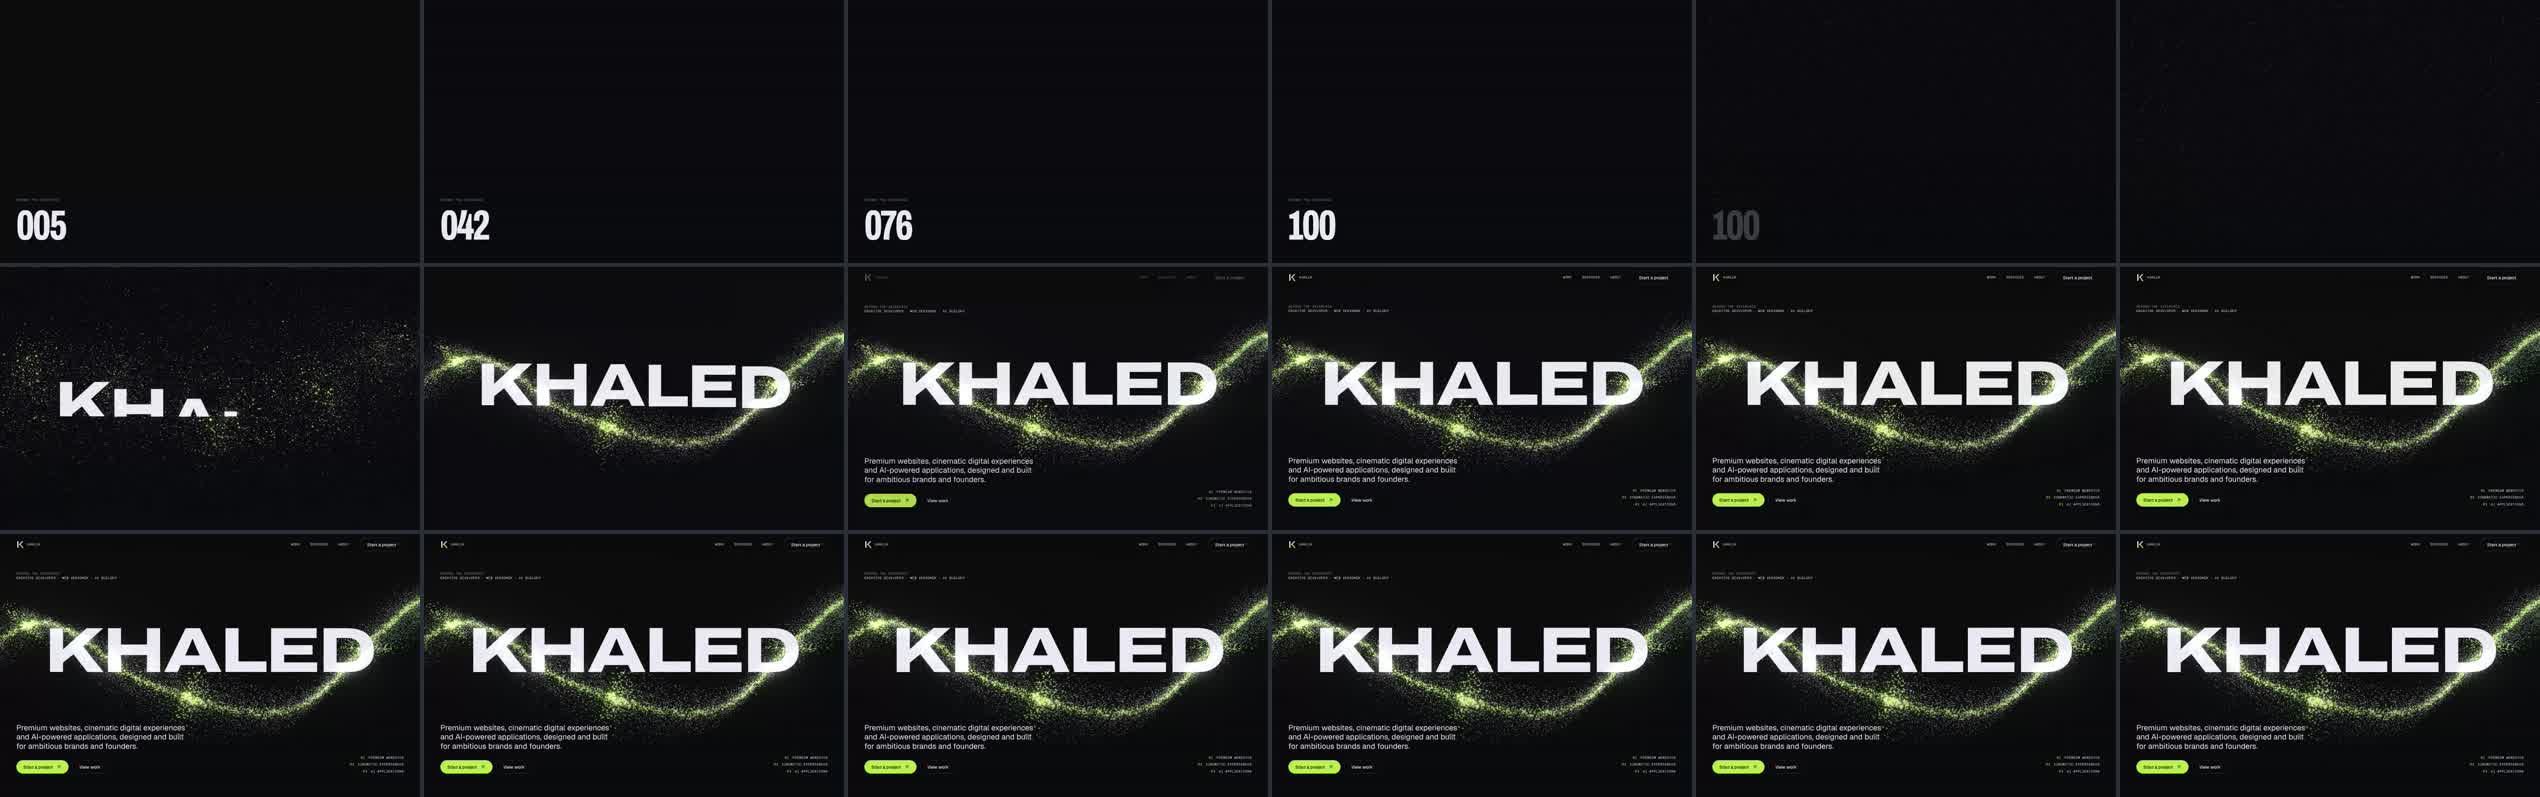
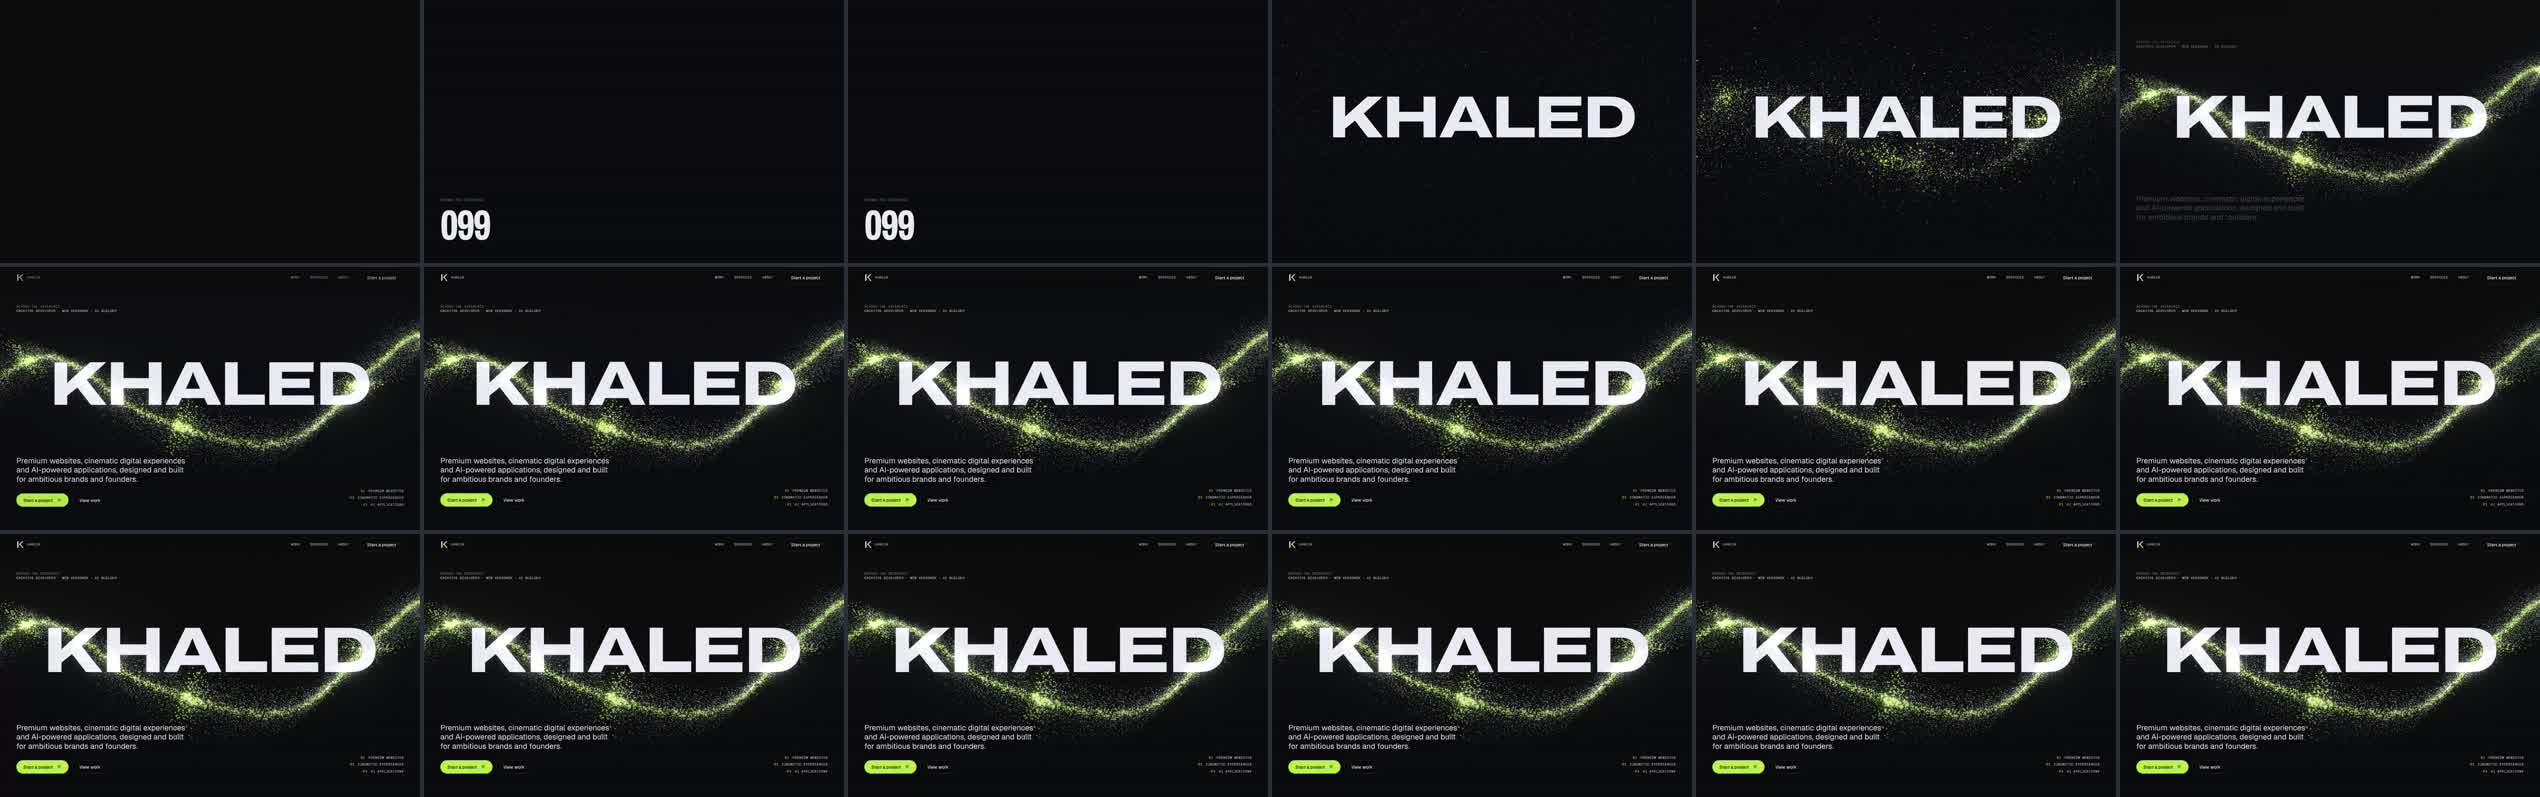
Hero review round: veil cap, tablet legibility, preview docs
- Opening veil is never a forced wait: exits as soon as the scene is ready,
  fully gone <= 1.0s after navigation incl. fade (CSS-enforced cap); counter
  only appears if init takes > 300ms; late JS falls back to seamless handoff
- Mobile intro decision recorded (offer line visible from first frame)
- Hero scrim follows orientation (fixes tablet-portrait legibility)
- portfolio/README.md: local preview + env + QA instructions
- Hero review notes: measurements, screenshots (6 sizes), known issues

Phase 5 remains paused pending Hero approval.

Claude-Session: https://claude.ai/code/session_01KrgLBmrXHV4e51NHZYd6G6

diff --git a/portfolio/components/motion/Intro.tsx b/portfolio/components/motion/Intro.tsx
@@ -9,7 +9,8 @@ import { detectTier } from "@/components/three/quality";
 
 /**
  * SCENE 01 — the opening (docs/preproduction/storyboard-motion-spec.md, rows 1.1–1.8).
- * First visit: veil + counter (≤ 2.0s) → gathering → letter rise → lines → nav.
+ * First visit: black veil only while the scene initialises (≤ 1.0s incl. fade; the counter appears
+ * only if init takes > 300ms) → gathering → letter rise → lines → nav.
  * Repeat visit: no veil, no letter rise; particles gather, wordmark crossfades DOM → WebGL.
  * Content is visible by default; this only ever animates it in, with timeouts as failsafes.
  */
@@ -57,62 +58,72 @@ export function Intro() {
       });
     };
 
-    if (!firstVisit) {
-      // Repeat visit: gather + seamless crossfade, no hidden content.
+    // Repeat visit (or first visit whose JS arrived after the veil budget):
+    // gather + seamless DOM → WebGL crossfade, no hidden content.
+    const seamless = () => {
       const unsub = onFlowReady(() => ctx.add(() => gsap.to(flow, { intro: 1, duration: 1.8, ease: "power2.inOut" })));
       waitForWordmark(4000).then((ok) => {
         if (!ok) return;
         flow.letters = flow.letters.map(() => 1);
         takeOver(true, 0.3);
       });
+      return unsub;
+    };
+
+    // Veil budget (Khaled, 2026-11-24): never a forced wait. The black screen exits the moment the
+    // scene is ready and is fully gone ≤ VEIL_MAX_MS after navigation, fade included.
+    // globals.css enforces the same cap without JS; the counter only appears after 300ms.
+    const VEIL_MAX_MS = 1000;
+    const VEIL_FADE_S = 0.35;
+    const waitBudget = VEIL_MAX_MS - VEIL_FADE_S * 1000 - performance.now();
+
+    if (!firstVisit || waitBudget < 60) {
+      if (firstVisit && veilRef.current) gsap.set(veilRef.current, { autoAlpha: 0 });
+      const unsub = seamless();
       return () => {
         unsub();
         ctx.revert();
       };
     }
 
-    // ---------- First visit
+    // ---------- First visit, within budget
     window.dispatchEvent(new CustomEvent("k:scroll-lock", { detail: true }));
     html.style.overflow = "hidden";
     const counter = { v: 0 };
+    const writeCount = () => countRef.current && (countRef.current.textContent = String(Math.round(counter.v)).padStart(3, "0"));
     ctx.add(() => {
-      // The LCP candidate (offer line) is never hidden — only moved — so LCP isn't delayed by the intro.
+      // The LCP candidate (offer line) is never hidden on mobile — only moved — so LCP isn't delayed.
       gsap.set(lines, { y: 24 });
       const lcpSafe = window.innerWidth < 768; // on mobile the offer line is the LCP element; on desktop it's the wordmark
       gsap.set(lines.filter((l) => !(lcpSafe && l.hasAttribute("data-lcp"))), { opacity: 0 });
       if (header) gsap.set(header, { opacity: 0 });
-      gsap.to(counter, {
-        v: 90,
-        duration: 1.4,
-        ease: "power1.out",
-        onUpdate: () => countRef.current && (countRef.current.textContent = String(Math.round(counter.v)).padStart(3, "0")),
-      });
+      gsap.to(counter, { v: 99, duration: Math.max(0.1, waitBudget / 1000), ease: "power1.out", onUpdate: writeCount });
     });
 
     let cancelled = false;
-    waitForWordmark(2000).then((ok) => {
+    let lateUnsub: (() => void) | undefined;
+    waitForWordmark(waitBudget).then((ok) => {
       if (cancelled) return;
       ctx.add(() => {
         const tl = gsap.timeline();
-        tl.to(counter, {
-          v: 100,
-          duration: 0.3,
-          ease: "power1.out",
-          onUpdate: () => countRef.current && (countRef.current.textContent = String(Math.round(counter.v)).padStart(3, "0")),
-        });
-        // Hand the wordmark to WebGL (letters still below their masks) under the veil
         tl.add(() => {
+          gsap.killTweensOf(counter);
+          counter.v = 100;
+          writeCount();
+          // Hand the wordmark to WebGL (letters still below their masks) under the veil
           if (ok) {
             flow.wordmark = 1;
             if (h1) gsap.set(h1, { opacity: 0 });
           }
         });
-        tl.to(veilRef.current, { autoAlpha: 0, duration: 0.6, ease: "cine" }, ">");
+        tl.to(veilRef.current, { autoAlpha: 0, duration: VEIL_FADE_S, ease: "cine" });
         tl.add(() => {
           html.style.overflow = "";
           window.dispatchEvent(new CustomEvent("k:scroll-lock", { detail: false }));
+          // Scene wasn't ready inside the budget: DOM wordmark stays; hand over seamlessly when ready.
+          if (!ok) lateUnsub = seamless();
         });
-        const t0 = tl.duration() - 0.35; // overlap the veil's exit
+        const t0 = tl.duration() - 0.2; // overlap the veil's exit
         // 1.2 gathering (starts dim, settles on the ribbon)
         tl.to(flow, { intro: 1, duration: 2.4, ease: "power2.inOut" }, t0);
         // 1.3 letter rise (WebGL, in depth)
@@ -130,6 +141,7 @@ export function Intro() {
 
     return () => {
       cancelled = true;
+      lateUnsub?.();
       html.style.overflow = "";
       ctx.revert();
     };
@@ -141,10 +153,12 @@ export function Intro() {
       aria-hidden="true"
       className="veil fixed inset-0 z-[80] flex-col items-start justify-end bg-obsidian p-[clamp(1.25rem,4vw,3.5rem)]"
     >
-      <p className="label text-muted">Beyond the interface</p>
-      <p className="display wdth-62 mt-2 text-[clamp(4rem,12vw,9rem)] leading-none text-silver">
-        <span ref={countRef}>000</span>
-      </p>
+      <div className="veil-count">
+        <p className="label text-muted">Beyond the interface</p>
+        <p className="display wdth-62 mt-2 text-[clamp(4rem,12vw,9rem)] leading-none text-silver">
+          <span ref={countRef}>000</span>
+        </p>
+      </div>
     </div>
   );
 }

diff --git a/portfolio/app/globals.css b/portfolio/app/globals.css
@@ -125,8 +125,12 @@
    A CSS failsafe reveals everything after 4.5s if JS never runs.
    --------------------------------------------------------------- */
 .veil { display: none; }
-html.first-visit .veil { display: flex; animation: veil-failsafe 0s linear 4.5s forwards; }
+/* Veil cap: fully gone ≤ 1.0s after navigation even if JS is slow (0.65s hold + 0.35s fade). */
+html.first-visit .veil { display: flex; animation: veil-failsafe 0.35s cubic-bezier(0.65, 0, 0.35, 1) 0.65s forwards; }
 @keyframes veil-failsafe { to { opacity: 0; visibility: hidden; } }
+/* The counter is only shown if initialisation is genuinely taking time (> 300ms). */
+.veil-count { opacity: 0; animation: veil-count-in 0.2s linear 0.3s forwards; }
+@keyframes veil-count-in { to { opacity: 1; } }
 
 @media (prefers-reduced-motion: reduce) {
   *, *::before, *::after { animation-duration: 0.01ms !important; transition-duration: 0.01ms !important; scroll-behavior: auto !important; }

diff --git a/portfolio/components/sections/Signal.tsx b/portfolio/components/sections/Signal.tsx
@@ -38,7 +38,7 @@ export function Signal() {
       {/* Legibility scrim: the Flow passes behind the offer, never through it */}
       <div
         aria-hidden="true"
-        className="pointer-events-none absolute inset-x-0 bottom-0 h-[62%] bg-[linear-gradient(to_top,rgba(9,10,13,0.92)_0%,rgba(9,10,13,0.7)_45%,transparent_100%)] md:h-[42%] md:bg-[linear-gradient(to_top,rgba(9,10,13,0.85)_0%,rgba(9,10,13,0.4)_50%,transparent_100%)]"
+        className="pointer-events-none absolute inset-x-0 bottom-0 h-[62%] bg-[linear-gradient(to_top,rgba(9,10,13,0.92)_0%,rgba(9,10,13,0.7)_45%,transparent_100%)] md:landscape:h-[42%] md:landscape:bg-[linear-gradient(to_top,rgba(9,10,13,0.85)_0%,rgba(9,10,13,0.4)_50%,transparent_100%)]"
       />
       <div className="container-site relative grid gap-8 md:grid-cols-12 md:items-end" data-hero-out>
         <div className="md:col-span-7 lg:col-span-6">

diff --git a/docs/review/hero/README.md b/docs/review/hero/README.md
@@ -1,54 +1,60 @@
-# Hero Review — Phase 4 (awaiting Khaled's approval)
+# Hero Review — awaiting Khaled's visual approval
 
-**Build:** `portfolio/` · Next.js 16.4 · production build · reviewed 2026-11-24
-**Recordings:** `hero-desktop.mp4` (1440×900, high tier) and `hero-mobile.mp4` (390×844, low tier). They're sent separately and not committed to git.
+**Status:** Phase 5 is **paused** until Khaled approves the Hero after reviewing it on real desktop and mobile devices. Nothing is published.
+**Build:** `portfolio/` production build · branch `claude/portfolio-skills-setup-rwlc89`
 
-> ⚠ The recordings were made in a cloud container **without a GPU** (software WebGL), so playback is choppier than on any real device. Timing is real; smoothness isn't representative. Please also run it locally (see below).
+## How to preview
+
+See [`portfolio/README.md`](../../../portfolio/README.md). In short, with Node ≥ 20.9:
+
+```bash
+cd portfolio && npm install && npm run build && npm start
+# → http://localhost:3000   (new tab/window = first-visit opening again)
+```
+
+## Review material
+
+| File | What |
+|---|---|
+| `hero-desktop.mp4` | 1440×900, high tier: opening → cursor interaction → scroll-out *(sent directly, not in git)* |
+| `hero-mobile.mp4` | 390×844, mobile tier: opening → scroll-out *(sent directly, not in git)* |
+| `desktop-sequence.jpg`, `mobile-sequence.jpg` | Frame sequences of the recordings |
+| `screenshots/hero-desktop-1440.jpg`, `hero-desktop-1920.jpg` | Settled hero, desktop |
+| `screenshots/hero-tablet-768.jpg` | Settled hero, tablet portrait |
+| `screenshots/hero-mobile-390.jpg`, `hero-mobile-360.jpg` | Settled hero, phones |
+| `screenshots/hero-reduced-motion-1440.jpg` | Reduced-motion version |
+
+> ⚠ All captures were made in a cloud container **without a GPU** (software WebGL). Timing is real, but motion is choppier than on a real device. Please judge smoothness on your own machine.
 
 ![Desktop sequence](desktop-sequence.jpg)
 ![Mobile sequence](mobile-sequence.jpg)
 
-## What to review
+## Decisions applied (2026-11-24)
 
-1. **The opening** (first visit): veil + counter → the scattered signal gathers into the Flow → KHALED rises letter by letter from its masks, *inside* the 3D space (the Flow passes behind K-H-A-L and in front of the D) → the offer and CTAs → the nav.
-2. **Business positioning:** the first viewport says what you sell and to whom, with **Start a project** as the primary action.
-3. **Interaction (desktop):** move the cursor across the Flow; particles part around it and the camera follows with a gentle parallax.
-4. **Scroll-out:** the wordmark lifts and drifts toward the camera while the Flow carries on into Scene 02.
-5. **Repeat visits:** no veil and no letter rise; the wordmark is already in place and only the particles gather.
-6. **Mobile:** the same story, re-staged vertically. 9k particles with no bloom (a brighter core instead), native scroll, and a legibility scrim behind the offer.
-7. **Reduced motion:** a still render of the Flow, everything visible immediately, no veil and no smooth scroll.
+1. **Mobile intro (approved):** the offer line is visible from the first frame, followed by the KHALED wordmark rise.
+2. **Opening veil (changed):** no forced waiting screen. The black screen exits the moment the scene is ready and is fully gone **≤ 1.0s** after navigation, fade included; a CSS failsafe enforces the cap even if JavaScript is slow. The counter only appears if initialisation takes > 300ms. Measured:
 
-## Verified
+| Scenario | Veil fully gone | Counter shown |
+|---|---|---|
+| Desktop, normal | 767 ms | briefly (software WebGL init > 300ms here) |
+| Mobile, 4× CPU throttle | 859 ms | briefly |
+| JavaScript disabled | never shown | — |
+| Repeat visit | never shown | — |
 
-| Check | Result |
-|---|---|
-| Production build, TypeScript 7 strict | ✅ |
-| QA sweep: 7 routes × 6 widths (360–1920) + reduced motion, axe-core | ✅ 0 blocking |
-| Lab LCP (local, no throttling) | 88–196 ms on every route; the first-visit intro does not delay LCP |
-| Keyboard | Skip link → logo → nav → CTAs, visible lime focus rings |
-| Inquiry form + API | Validation, honeypot, webhook delivery, mailto fallback, "unconfigured" state, all tested |
-| Console errors | None from our code (R3F 9.8 logs a known `THREE.Clock` deprecation notice) |
+On a device with a real GPU, initialisation is usually faster than 300ms, so most first visits won't see a counter at all.
 
-## Decisions you may want to weigh in on
+## Verified on this build
 
-- **Mobile intro:** the offer line is visible from the first frame, because it's the LCP element on phones and hiding it would cost up to ~2s of LCP on slow devices. On desktop it reveals after the wordmark, as storyboarded.
-- **Preloader:** shown once per session, capped at 2.0s, and it only covers real work (fonts + shader compile).
-- **The wordmark is rendered twice by design:** the DOM `h1` (SEO, accessibility, LCP, no-JS) and a pixel-matched WebGL copy that takes over invisibly so the Flow can pass through it.
+- QA, home: 0 blocking issues at 360 / 390 / 768 / 1024 / 1440 / 1920 + reduced motion, axe-core included. Previous full sweep: 7 routes, 0 blocking.
+- Lab LCP (local, unthrottled): 108–220 ms. The intro never delays LCP.
+- Tablet-portrait legibility fixed in this round: the hero scrim now follows orientation, not width.
 
-## Run it locally
+## Known issues (open)
 
-```bash
-cd portfolio && npm install && npm run build && npm start   # http://localhost:3000
-# QA overrides: ?tier=high | medium | low | static
-# First-visit intro again: open a new tab/window (it's per session)
-```
-
-## Phase 5 backlog (already identified, not started)
-
-- Scene 02: route the loop so it doesn't cross the bio text, and add kinetic width-flow on "digital".
-- Scene 03: align the Flow-built panels with the DOM capability cards; hover tilt; pin on desktop.
-- Scene 04: real captures of the four showcases (replacing the placeholder art), depth gallery and the card → case-study transition.
-- Scene 05: orbit nodes tied to the real tool list, plus the filter.
-- Scene 06: magnetic CTA, portal brightening on hover.
-- Global: custom cursor, magnetic buttons, View Transitions, OG images.
-- Inputs still needed from you: contact email, socials, availability line, and confirmation of the tool list.
+1. **Real-device performance is unverified.** All frame-rate testing ran on software WebGL. Smoothness on real desktops and phones, and the auto-downgrade threshold (< 42 fps), need checking on your devices.
+2. **Counter flash.** On slower devices the counter can appear for a fraction of a second before the veil exits. This is by design (it only shows when initialisation is genuinely slow), but it may read as a flicker; it can be removed entirely if you prefer a pure black screen.
+3. **Safari/WebKit and Firefox are untested.** Only Chromium is installed in this environment.
+4. **The wordmark scroll-out** lifts and drifts the letters toward the camera; it does not yet dissolve into particles as the storyboard describes (planned for Phase 5).
+5. **The Flow behind Scenes 02–05** is functional but not yet aligned with their content: the ribbon crosses the Scene 02 bio, the panels and frame don't sit over the cards, and the orbits sit behind the tool table (Phase 5).
+6. **Placeholders:** contact email, social links, availability line, OG/share images, real project captures; the tool list needs your confirmation.
+7. **Console:** React Three Fiber 9.8 logs a known `THREE.Clock` deprecation warning (library-side, harmless).

diff --git a/portfolio/README.md b/portfolio/README.md
@@ -1,0 +1,43 @@
+# KHALED — Beyond the Interface (portfolio app)
+
+Next.js 16 · React 19 · TypeScript 7 · Tailwind CSS 4 · GSAP 3 + Lenis · React Three Fiber.
+Creative direction: [`../docs/art-direction.md`](../docs/art-direction.md) · Hero review: [`../docs/review/hero/README.md`](../docs/review/hero/README.md)
+
+## Run it locally
+
+Requires **Node.js 20.9 or newer** (`node -v`).
+
+```bash
+git clone https://github.com/baderk725-ux/horizon.git
+cd horizon
+git checkout claude/portfolio-skills-setup-rwlc89
+cd portfolio
+npm install
+npm run build
+npm start
+```
+
+Open **http://localhost:3000**.
+
+- **Review the real experience with the production build** (`build` + `start`). `npm run dev` also works (http://localhost:3000) but is slower and not representative of motion or performance.
+- **To see the first-visit opening again**, open the page in a **new tab or window**. The opening plays once per browser session.
+- **Mobile:** use a real phone on the same Wi-Fi (`npm start -- -H 0.0.0.0`, then open `http://<your-computer-ip>:3000`), or the browser's device toolbar. Device emulation doesn't reproduce mobile GPU performance.
+- **Quality-tier overrides** (QA only): `?tier=high`, `?tier=medium`, `?tier=low`, `?tier=static`. A forced tier also disables the automatic downgrade.
+- **Reduced motion:** enable "Reduce motion" in your OS accessibility settings and reload.
+
+## Optional environment (`.env.local`)
+
+| Variable | Purpose |
+|---|---|
+| `NEXT_PUBLIC_SITE_URL` | Canonical URL for metadata/sitemap (default `http://localhost:3000`) |
+| `NEXT_PUBLIC_CONTACT_EMAIL` | Shows the email in the UI and enables the mailto fallback for inquiries |
+| `INQUIRY_WEBHOOK_URL` | Delivers Start-a-Project inquiries as JSON to a webhook (Slack, Discord, Make, Zapier, Formspree…) |
+
+Without either delivery variable, the inquiry form clearly says online inquiries aren't connected yet.
+
+## QA
+
+```bash
+npm run build && npm start   # in one terminal
+npm run qa -- http://localhost:3000 --widths 360,390,768,1024,1440,1920 --axe
+```

diff --git a/docs/preproduction/storyboard-motion-spec.md b/docs/preproduction/storyboard-motion-spec.md
@@ -29,7 +29,7 @@
 
 | # | Element | Purpose | Trigger | Duration / ease | Exit state |
 |---|---|---|---|---|---|
-| 1.1 | Preloader veil (obsidian) + % counter (mono) | Masks shader compile and font load; first-visit only (session) | Page load | Until ready, **max 2.0s**; counter `snap 1` | Veil fades out over 0.6s; skipped on repeat visits |
+| 1.1 | Opening veil (obsidian) + % counter (mono) | Covers scene initialisation only; first visit only (session). **Never a forced wait** (decision 2026-11-24) | Page load | Exits the moment the scene is ready; fully gone **≤ 1.0s** after navigation incl. its 0.35s fade (CSS-enforced cap). The counter appears only if init takes > 300ms | Removed; skipped on repeat visits, or if JS arrives after the cap (seamless handoff instead) |
 | 1.2 | Particle gathering | Establish "signal → form" | Veil exit | 2.4s, per-particle delay 0–0.8s, `ease.flow` | Particles settled on the ribbon; the ribbon keeps flowing (idle) |
 | 1.3 | Wordmark reveal (WebGL, in-depth) | The name *inside* the light | t = 0.9s into 1.2 | 1.1s; letters rise from a mask, stagger 0.05, `ease.flow` | Visible; the Flow passes behind K-H-A and in front of E-D |
 | 1.4 | DOM crossfade | Swap the SSR `h1` for the WebGL wordmark seamlessly | WebGL wordmark ready | 0.3s | DOM `h1` at opacity 0 (stays in the accessibility tree) |
@@ -39,6 +39,7 @@
 | 1.8 | Scroll out | Hand off to Form | Scroll 0.6 → 1.2 vh (scrub) | — | Wordmark dissolves to particles that join the ribbon; text slides up 15% and fades |
 
 **Reduced motion:** a static poster of this exact composition (pre-rendered), all text visible immediately, and no preloader.
+**Mobile (approved 2026-11-24):** the offer line is visible from the first frame (it is the mobile LCP element), followed by the KHALED wordmark rise. Readability and performance take priority.
 
 ## SCENE 02 — FORM (identity) · 1.2 → 2.6 vh
 
